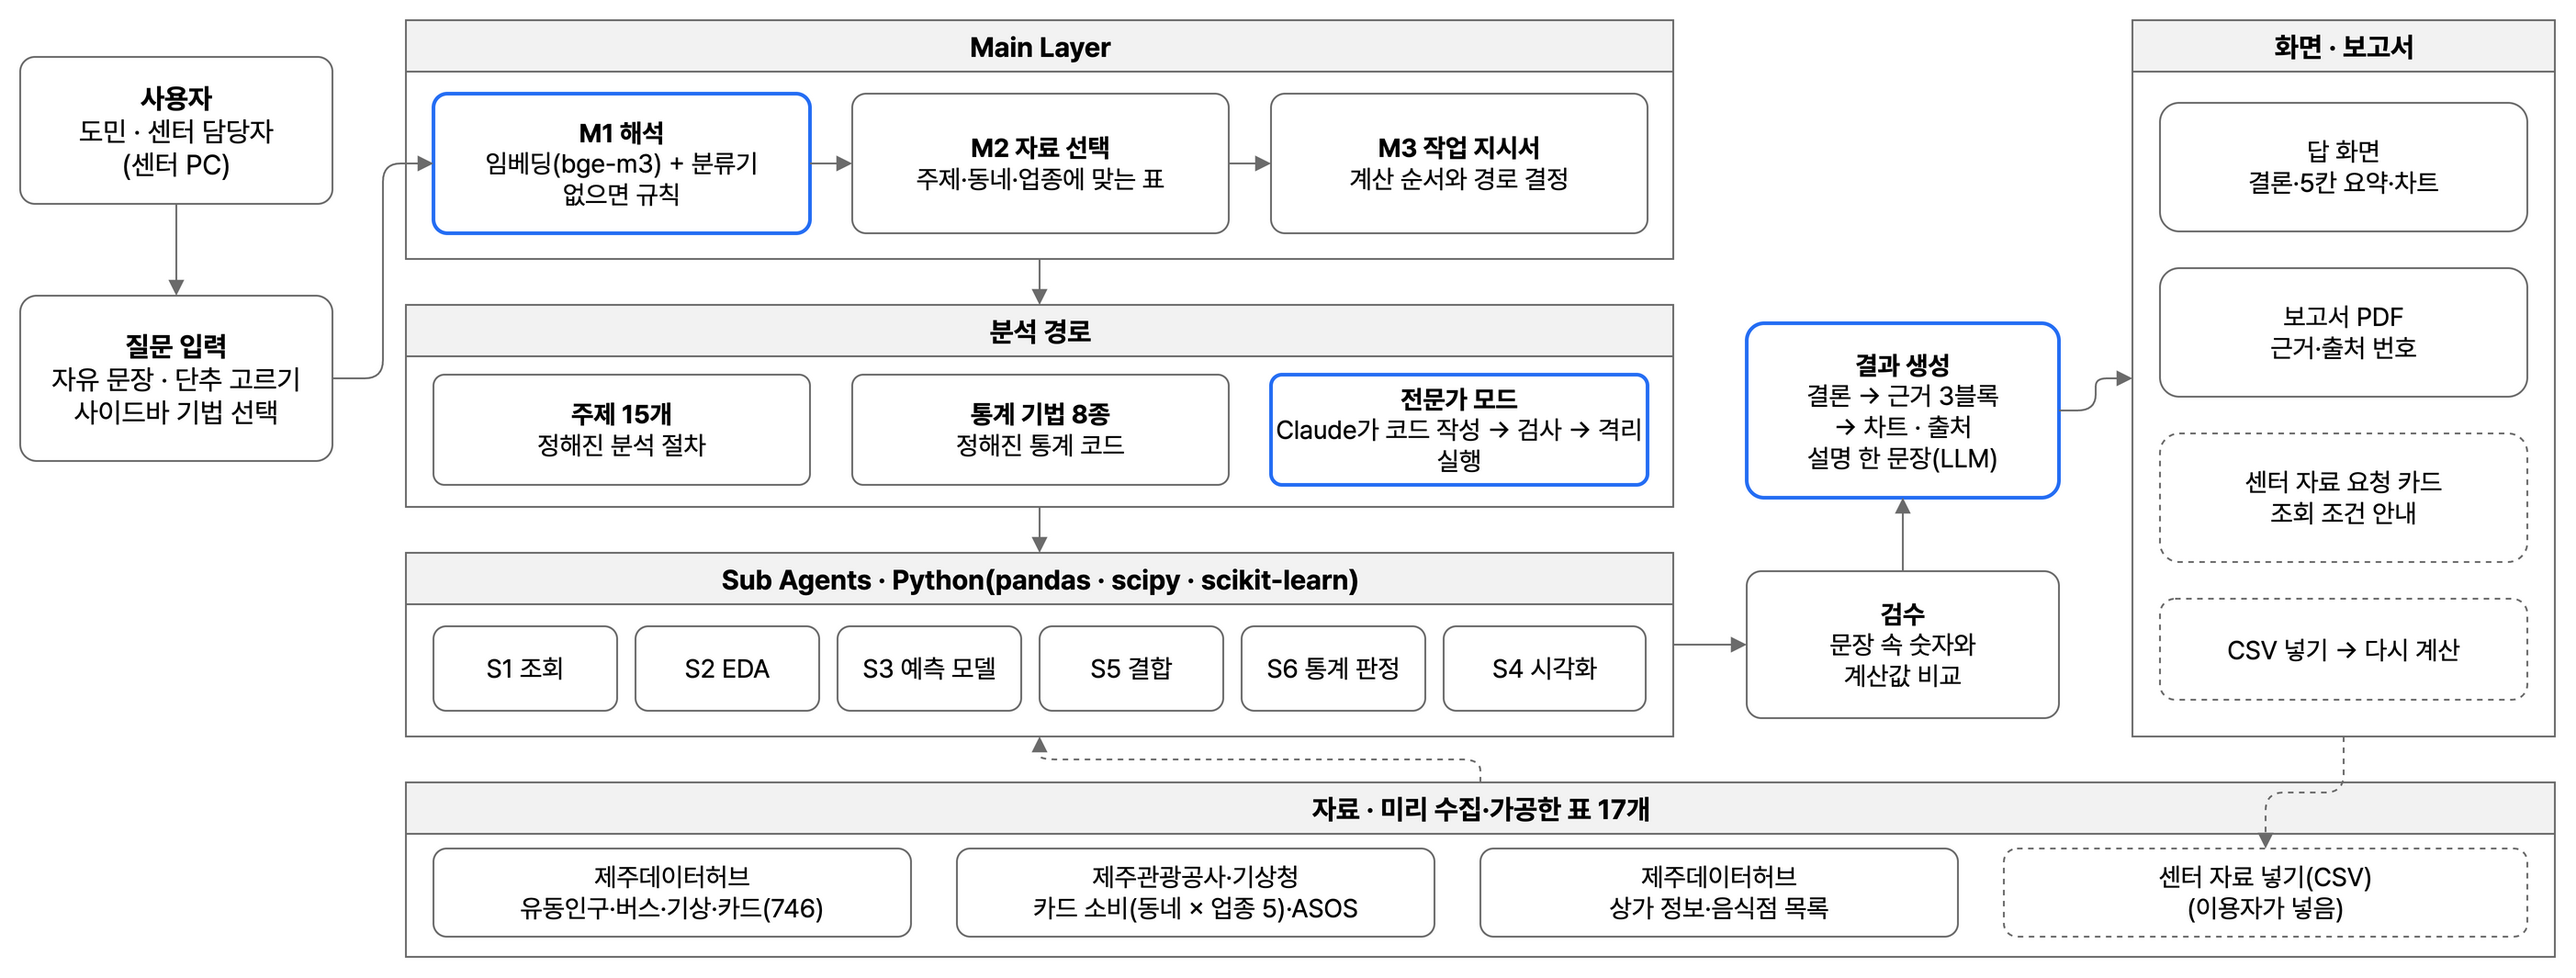
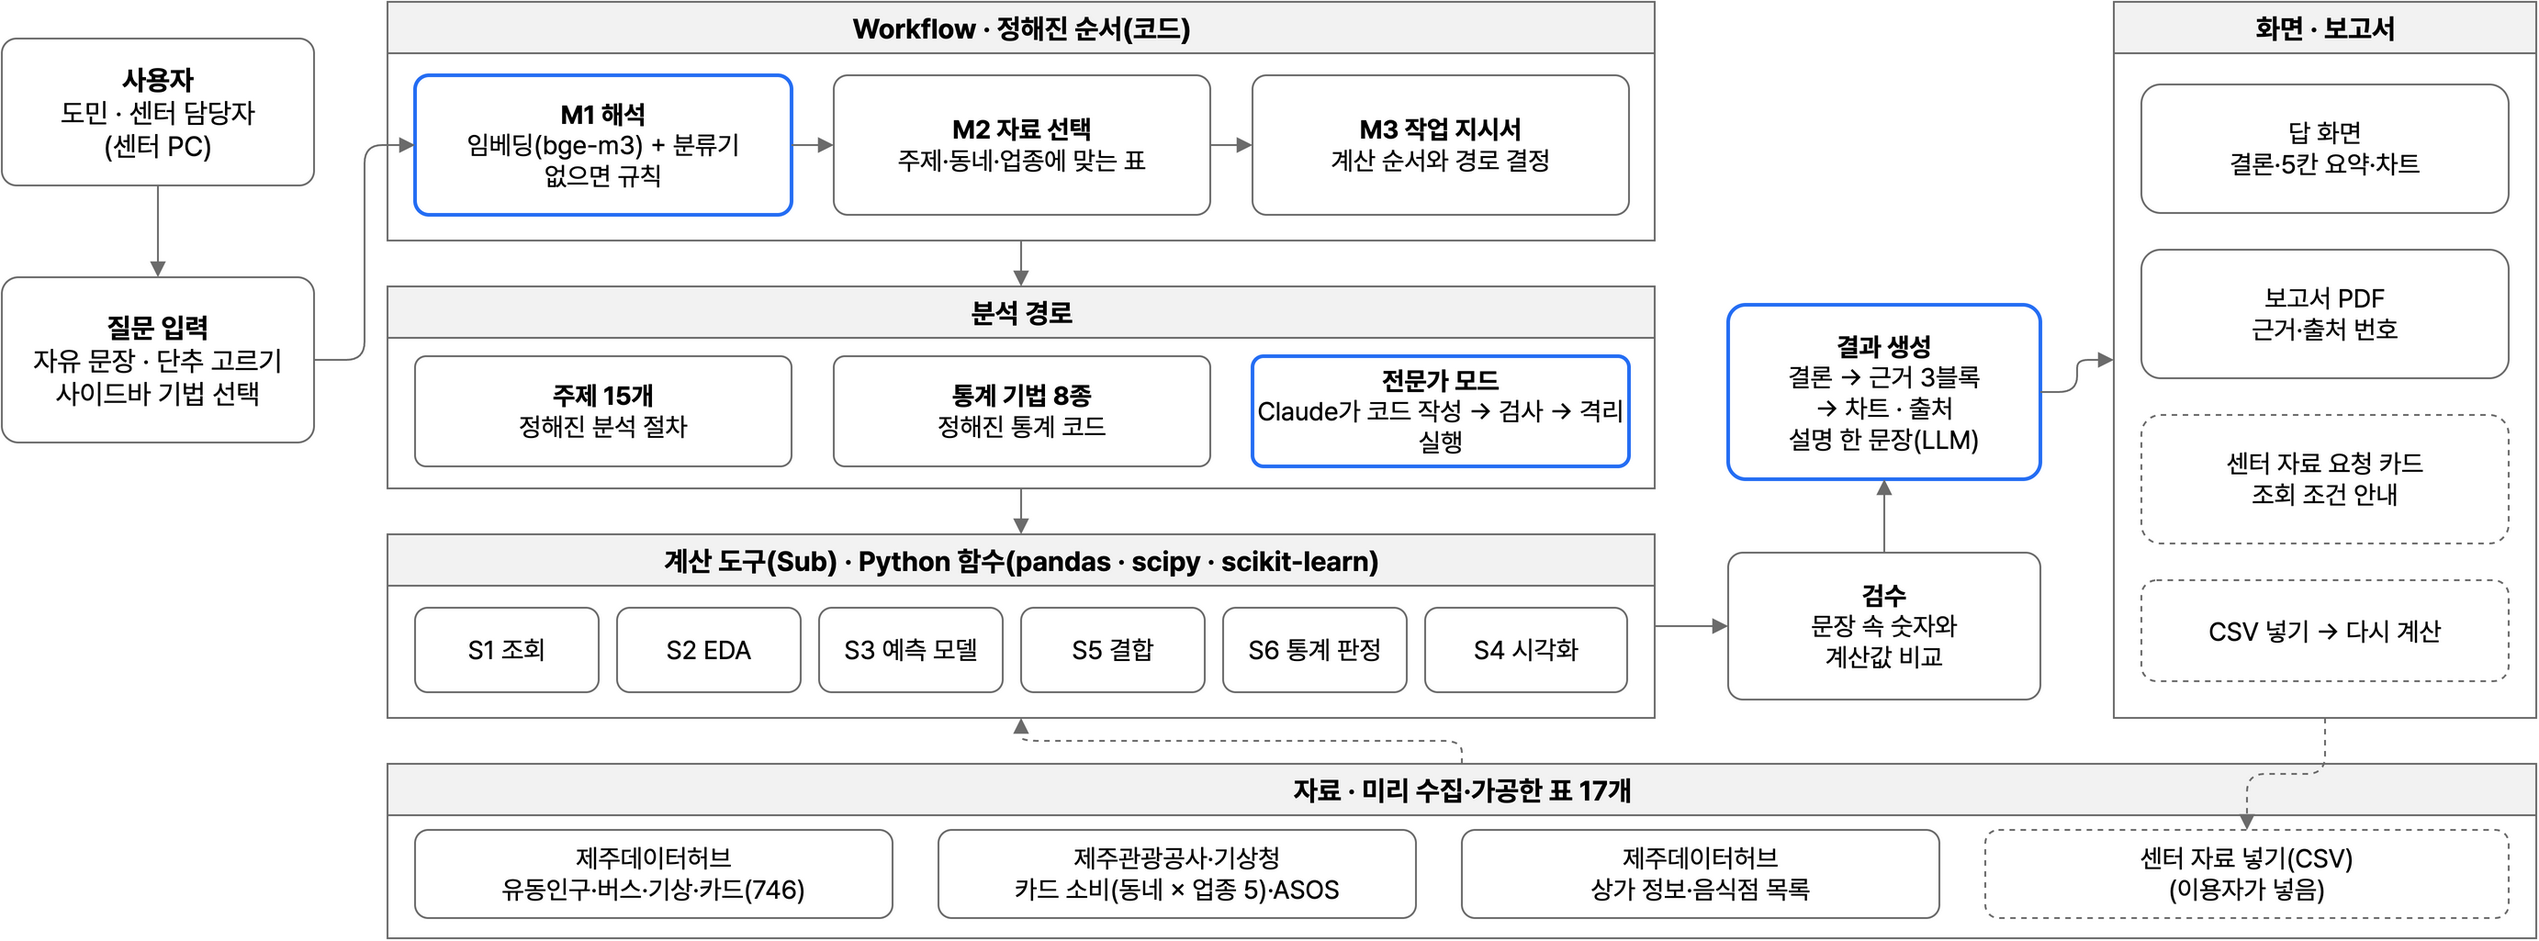
Agent 구조 표현을 코드에 맞춤: '검증을 붙인 Workflow + 전문가 모드의 Agent 루프', 그림의 Main Layer·Sub Agents를 Workflow·계산 도구(Python 함수)로, 자율 범위 표에서 분류기·규칙이 정하는 일과 Claude가 정하는 일을 나눔

diff --git a/README.md b/README.md
@@ -45,12 +45,15 @@
 | 4. 전문가 모드 | 센터 담당자 | 목록에 없는 분석을 문장으로 요청 | Claude가 분석 코드를 작성하고, 검사 뒤 분리된 프로세스에서 실행 |
 
 ### Agent 구조
-![Agent 구조: M1 해석 → M2 자료 선택 → M3 작업 지시서 → Sub Agents(S1~S6) → 검수 → 결과 생성](docs/제출/img/agent_structure.png)
+![Agent 구조: Workflow(M1 해석 → M2 자료 선택 → M3 작업 지시서) → 계산 도구 S1~S6 → 검수 → 결과 생성, 전문가 모드는 Claude의 코드 작성·고치기 루프](docs/제출/img/agent_structure.png)
+
+구조를 한 줄로 쓰면 '검증을 붙인 Workflow + 전문가 모드의 Agent 루프'이다.
 
 처리 순서: M1 질의 해석 → M2 계획 → M3 작업 지시서 → Sub 실행(조회·EDA·학습·통계 검정) → 검수 → 결과 생성.
 
-- 일반 질문은 정해진 순서로 도구를 실행한다(Workflow). 숫자 계산을 LLM에 맡기지 않아 같은 질문에 같은 숫자가 나온다.
-- 전문가 모드는 Claude가 분석 계획과 pandas 코드를 정하고, 검사나 실행이 실패하면 오류를 받아 고쳐 다시 제출한다(Agent).
+- 일반 질문은 정해진 순서로 도구를 실행한다(Workflow). 질문 해석은 임베딩 분류기와 규칙이, 자료와 계산 순서는 주제별 계획 표가 정한다. 숫자 계산을 LLM에 맡기지 않아 같은 질문에 같은 숫자가 나온다.
+- 검수는 단계마다 결과를 검사하고, 실패하면 코드가 재계획·재계산을 정한다(총 2회까지).
+- 전문가 모드는 Claude가 분석 계획과 pandas 코드를 정하고, 검사나 실행이 실패하면 오류를 받아 고쳐 다시 제출한다(Agent). LLM이 스스로 판단하는 경로는 이 모드뿐이다.
 - LLM·임베딩은 질문 해석, 설명 문장, 전문가 모드의 코드 작성에만 쓴다. 모든 숫자는 Python 코드가 계산한다.
 - 도구·API 목록과 자율 범위는 [결과 설명자료 2장](docs/제출/결과_설명자료.md#2-구조)에 있다.
 

diff --git a/docs/제출/결과_설명자료.md b/docs/제출/결과_설명자료.md
@@ -28,8 +28,9 @@
 5. **결과 생성**: 결론 한 줄, 5칸 요약, 근거 차트, 출처, 보고서 PDF를 만든다.
 
 ### 2.2 Workflow와 Agent
-- 일반 질문은 정해진 순서로 도구를 실행한다(Workflow). 숫자 계산을 LLM에 맡기지 않아 같은 질문에 같은 숫자가 나온다.
-- 전문가 모드는 Claude가 분석 계획과 pandas 코드를 정한다. 코드 검사나 실행이 실패하면 오류를 받아 고쳐 다시 제출한다(Agent).
+- 구조를 한 줄로 쓰면 '검증을 붙인 Workflow + 전문가 모드의 Agent 루프'이다.
+- 일반 질문은 정해진 순서로 도구를 실행한다(Workflow). 질문 해석은 임베딩 분류기와 규칙이, 자료와 계산 순서는 주제별 계획 표(`app/planner.py`)가 정한다. 검수(`app/verify.py`)가 실패를 찾으면 코드가 재계획·재계산을 정한다(총 2회까지). 숫자 계산을 LLM에 맡기지 않아 같은 질문에 같은 숫자가 나온다.
+- 전문가 모드는 Claude가 분석 계획과 pandas 코드를 정한다. 코드 검사나 실행이 실패하면 오류를 받아 고쳐 다시 제출한다(Agent). LLM이 스스로 판단하는 경로는 이 모드뿐이고, 고치기는 1번까지다.
 - 구분 기준은 Anthropic, *Building effective agents*(2024-12-19)의 정의를 따른다.
 
 ### 2.3 Tool/API
@@ -51,7 +52,8 @@
 
 | 누가 정하는가 | 정하는 일 |
 |---|---|
-| Agent | 질문 해석, 자료 선택, 분석 경로, 되묻기, 전문가 모드의 분석 계획·코드 |
+| Claude(전문가 모드) | 분석 계획·pandas 코드, 실패 시 고친 코드 |
+| 프로그램(분류기·규칙·계획 표) | 질문 해석, 자료 선택, 분석 경로, 재계획·재계산 |
 | 프로그램(Python 코드) | 모든 숫자 계산, 예측 검증 기준(오차 비율 1 미만·p < 0.05), 코드 실행 허용 범위 |
 | 사람(도민·센터 담당자) | 창업 여부 같은 추천·결정, 전문가 모드 실행 요청 |
 
